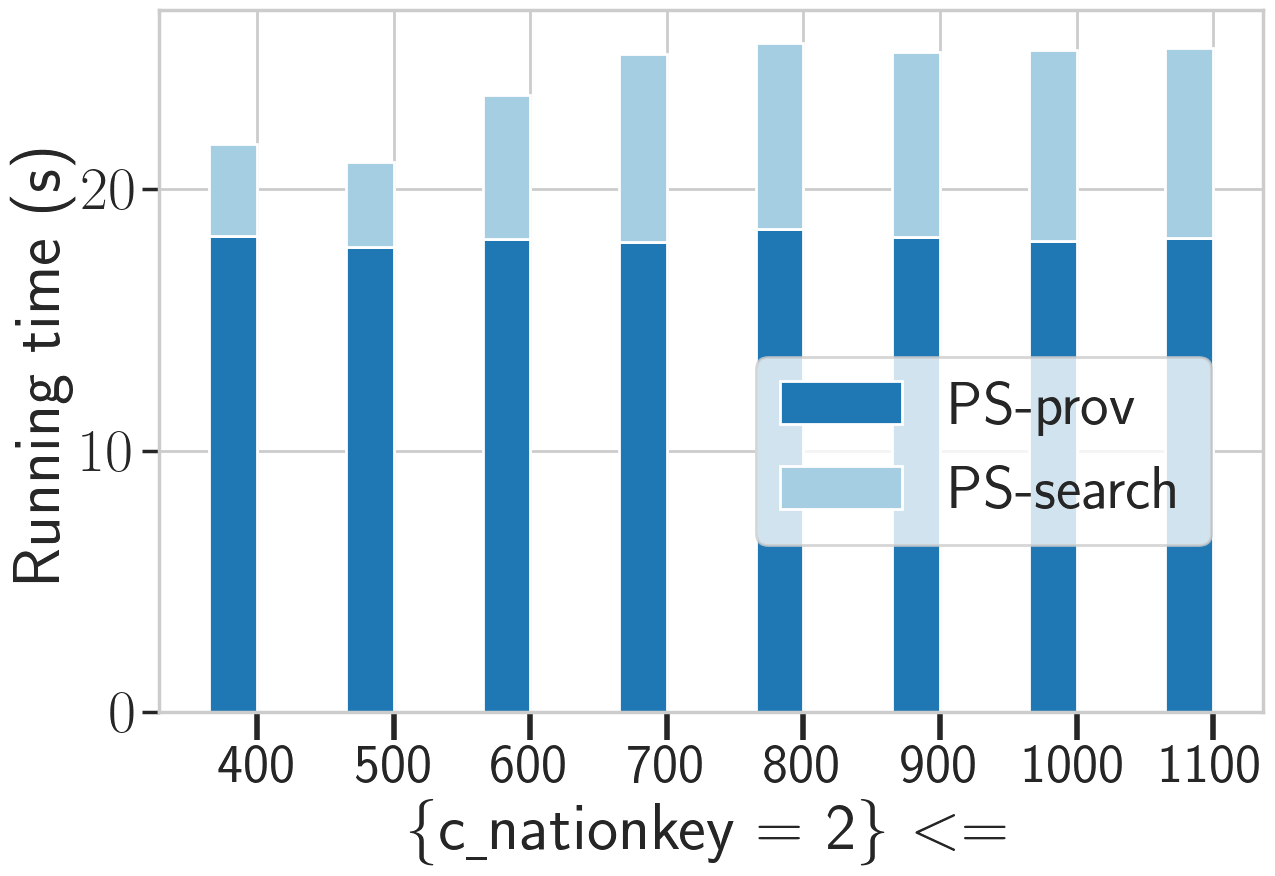
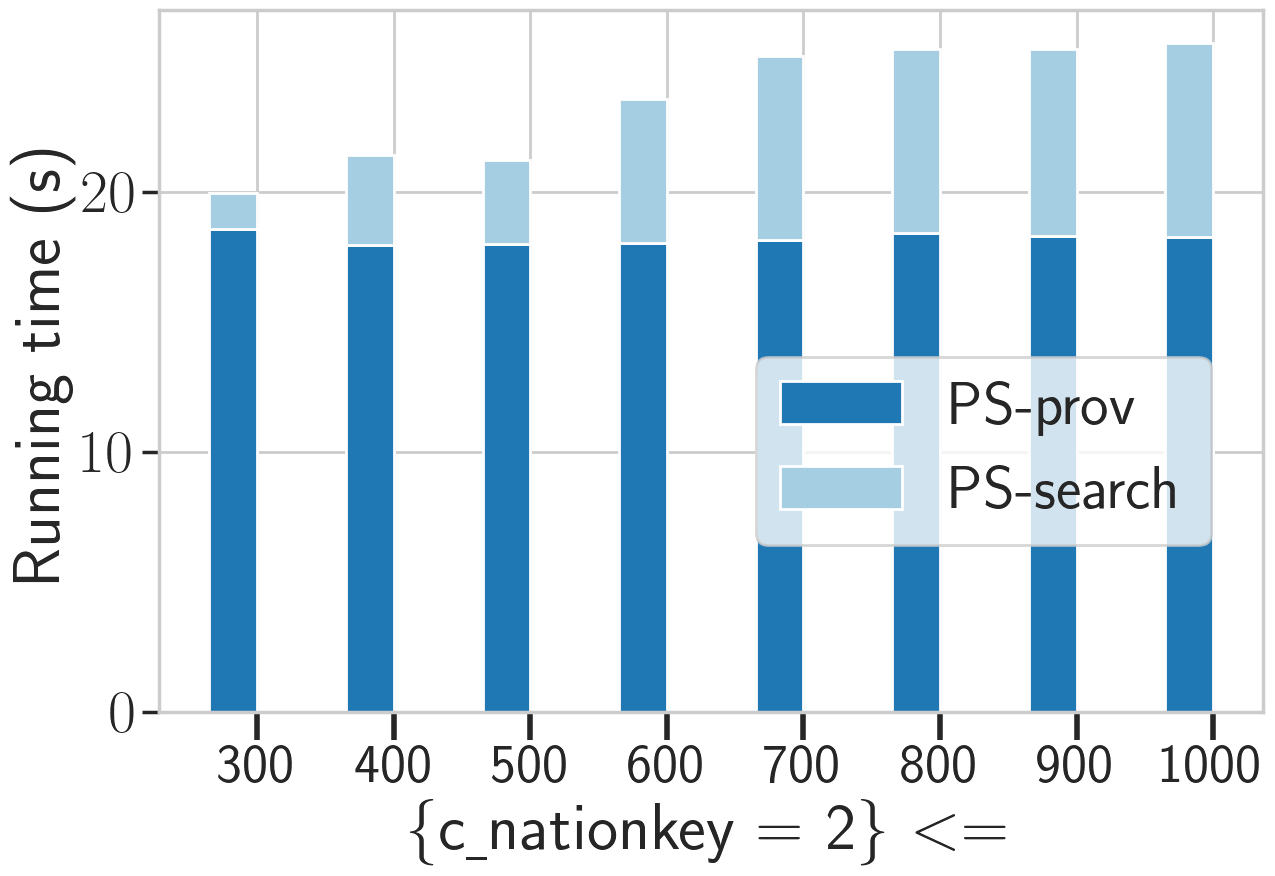
1G constraint change q3 contract

diff --git a/Experiment/TPCH/1G/constraint_change/q3_contract1/constraint_change_q3_contract.py b/Experiment/TPCH/1G/constraint_change/q3_contract1/constraint_change_q3_contract.py
@@ -41,7 +41,7 @@ def run_constraint(q, c):
     result_output = open(result_output_file, "w")
     result_output.write("selection file, result\n")
 
-    for i in range(1, 9):
+    for i in range(0, 9):
         print("constraint {}\n".format(i))
         constraint_file = r"./constraint_" + c + str(i) + ".json"
         print("========================== provenance search ===================================")

diff --git a/Experiment/TPCH/1G/constraint_change/q3_contract1/fig.py b/Experiment/TPCH/1G/constraint_change/q3_contract1/fig.py
@@ -59,7 +59,7 @@ def run(query, size, constraint):
             execution_timebl1.append(0)
             execution_timebl2.append(0)
     # x_list = [19941230, 19950115, 19950130, 19950215, 19950230, 19950315, 19950330, 19950415]
-    x_list = [400, 500, 600, 700, 800, 900, 1000, 1100]
+    x_list = [300, 400, 500, 600, 700, 800, 900, 1000]
 
     print(x_list, execution_timeps1, execution_timeps2)
 
